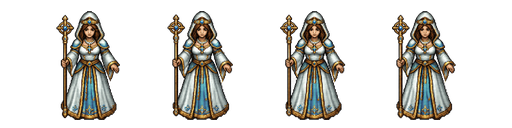
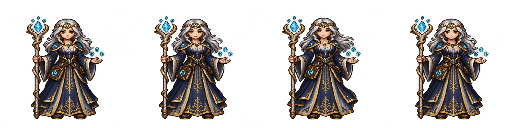
npcs: 7 sprites premium novos (caverna, ruinas e Valdoria)
- Mineiro Perdido (caverna) e Maga Selene (ruinas): arte propria no lugar das
  copias da Sarah/Bakka; papel novo 'talk' repete a fala ao interagir
- Valdoria: Liora, Varek, Mira, Torin e Durnan no maps.json (mapa segue base vazia)
- lojas de pets/montarias/forja rara usam Mira/Torin/Durnan em vez de Borin/Bakka
- folhas alinhadas na linha dos pes 119 (tools/npc_sprites/fit_npc_sprites.py)
- patch 2026.11.04b com o maps.json novo

Claude-Session: https://claude.ai/code/session_018b232CSTCosABWENv49QTB

diff --git a/tools/npc_sprites/fit_npc_sprites.py b/tools/npc_sprites/fit_npc_sprites.py
@@ -1,0 +1,43 @@
+"""NPCs novos (folhas 512x128, 4 quadros de respiracao) alinhados a linha dos pes dos NPCs premium.
+
+Fonte: tools/npc_sprites/fonte/npc_<nome>_idle.png (pacote npcs_sete_personagens.zip).
+Saida: assets/characters/npcs/<destino>_idle_4f_128.png (o sufixo liga a animacao de respiracao
+em Npc.setup). Cada folha e deslocada na vertical para os pes ficarem na linha 119, igual a
+Sarah, Borin, Bakka e Arion.
+
+uso: python tools/npc_sprites/fit_npc_sprites.py   (raiz do projeto; Pillow, numpy)
+"""
+from pathlib import Path
+
+import numpy as np
+from PIL import Image
+
+ROOT = Path(__file__).resolve().parents[2]
+SRC = Path(__file__).resolve().parent / "fonte"
+OUT = ROOT / "assets/characters/npcs"
+FEET_Y = 119
+MAPA = {
+    "npc_mineiro_perdido_idle": "npc_mineiro_perdido",
+    "npc_maga_selene_idle": "npc_maga_selene",
+    "npc_mira_idle": "npc_mira_pets",
+    "npc_torin_idle": "npc_torin_montarias",
+    "npc_durnan_idle": "npc_durnan_forja_rara",
+    "npc_liora_idle": "npc_liora_curandeira",
+    "npc_varek_idle": "npc_varek_mercador",
+}
+
+
+def main():
+    for src, dst in MAPA.items():
+        im = Image.open(SRC / f"{src}.png").convert("RGBA")
+        assert im.size == (512, 128), (src, im.size)
+        alpha = np.asarray(im)[..., 3] > 20
+        feet = int(np.nonzero(alpha.any(1))[0].max())
+        out = Image.new("RGBA", im.size, (0, 0, 0, 0))
+        out.alpha_composite(im, (0, FEET_Y - feet))
+        out.save(OUT / f"{dst}_idle_4f_128.png", optimize=True)
+        print(dst, "pes", feet, "->", FEET_Y)
+
+
+if __name__ == "__main__":
+    main()
